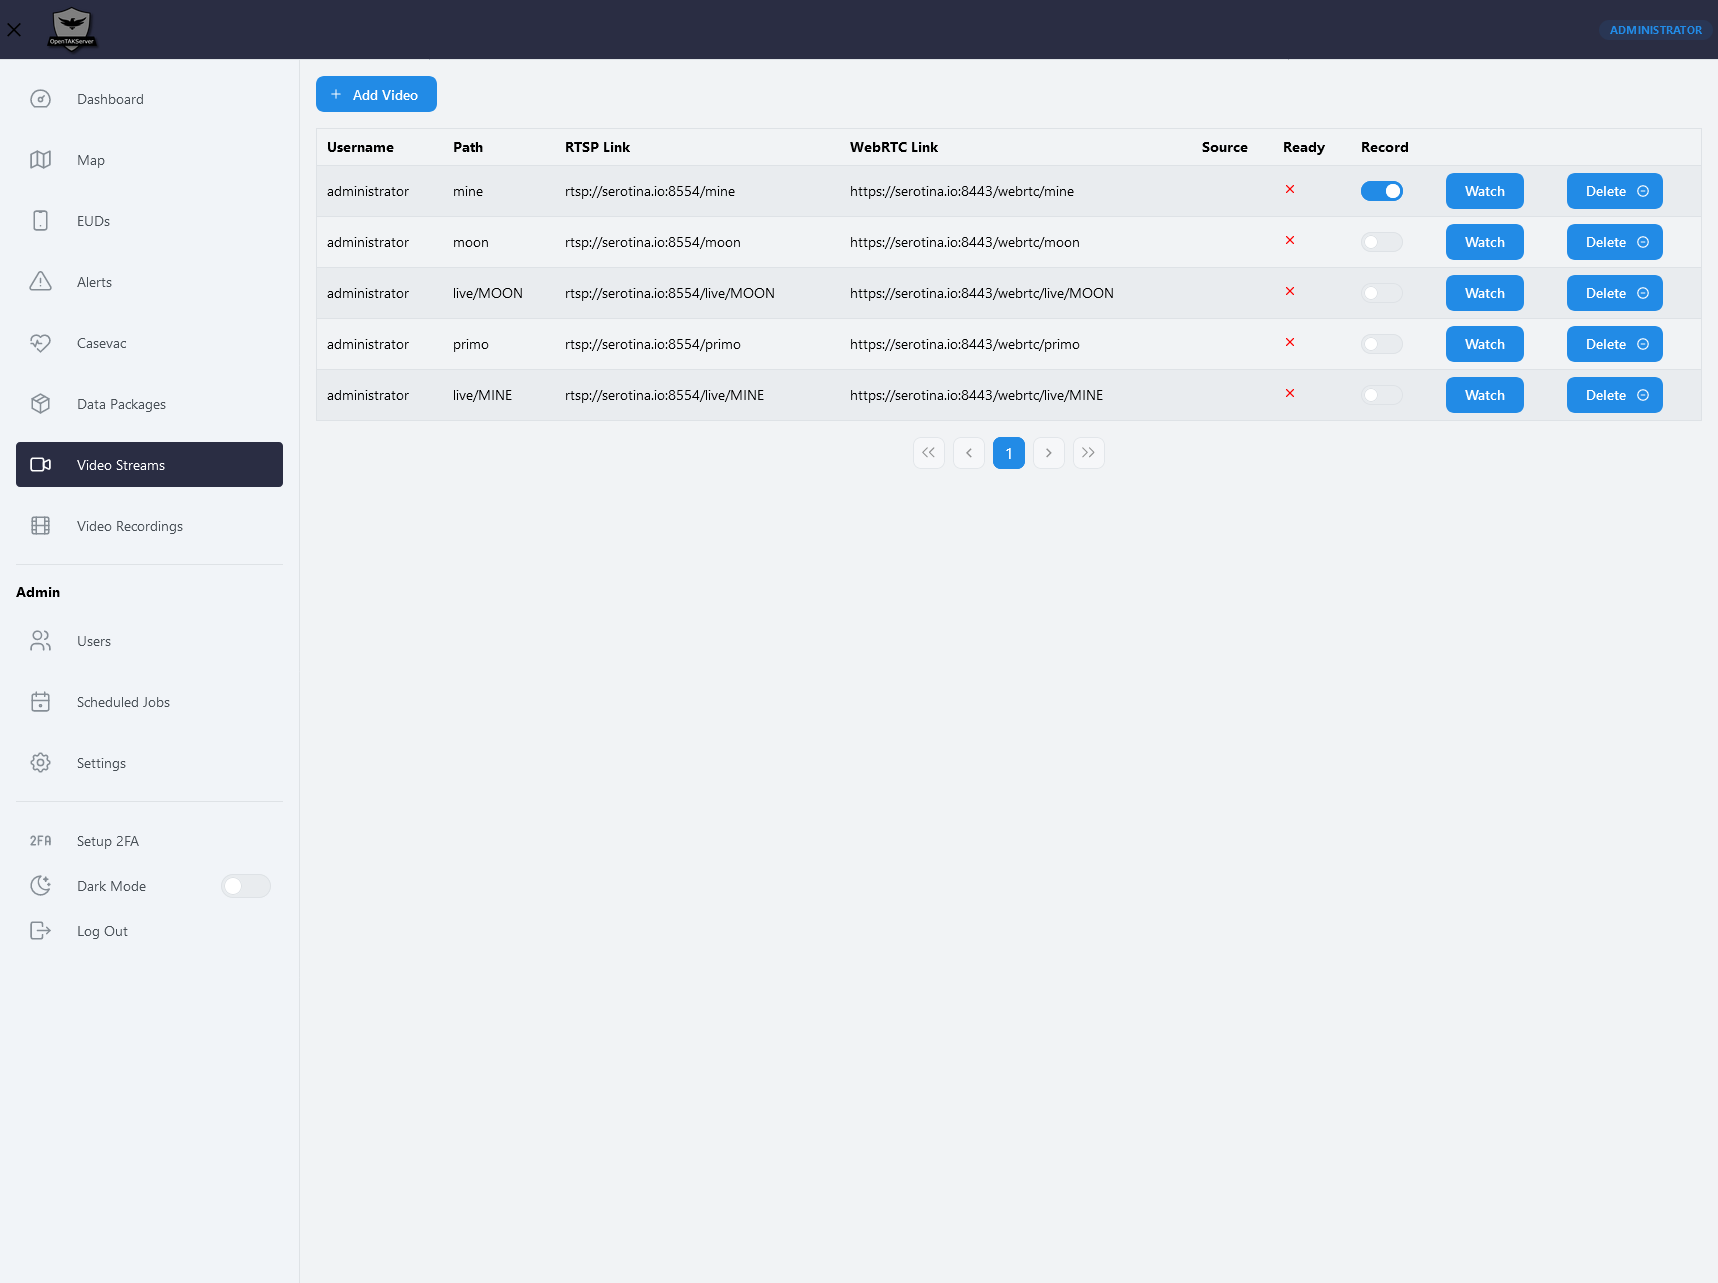
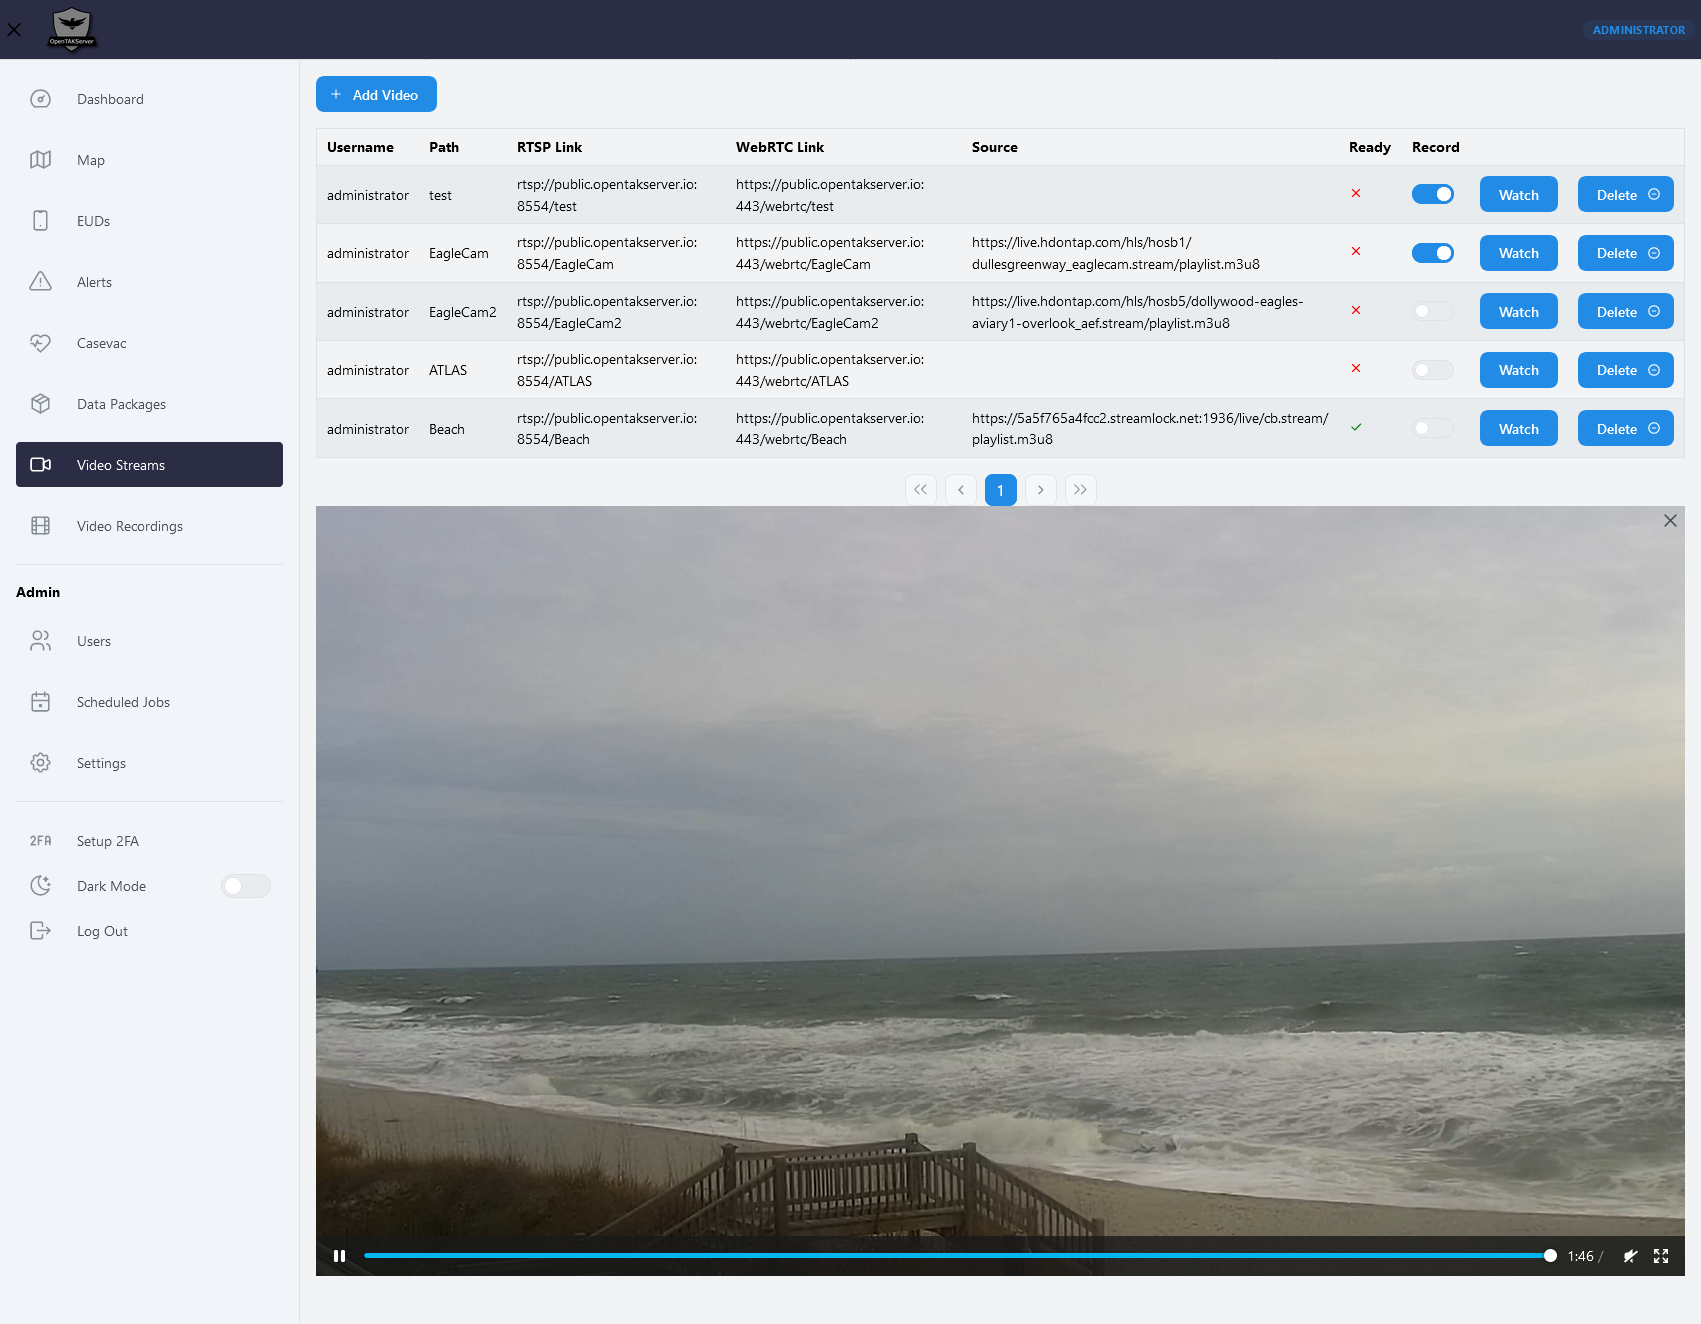
Updated video streaming docs

diff --git a/docs/video_streaming.md b/docs/video_streaming.md
@@ -18,6 +18,35 @@ You can stream to MediaMTX using a variety of protocols:
 - WebRTC
 - UDP Multicast
 
+## Watching Video Streams
+
+***
+
+### In Browser
+
+***
+
+In OpenTAKServer, click on `Video Streams`. In the list of streams, click the `Watch` button on the stream you want to view.
+A video player will show up below the list of streams. There is a known issue where the player sometimes doesn't show up.
+If that happens, refresh the page and try again.
+
+Alternatively, you can copy the WebRTC link of the video and paste it in a new tab.
+
+### In ATAK
+
+***
+
+When ATAK is connected to OpenTAKServer, open the Video tool, then tap the download button. ATAK will query the server
+for a list of video streams. Choose which stream to view and tap the `Ok` button. Next, edit the video settings and add your
+OpenTAKServer username and password. You can now view the video stream.
+
+### In VLC
+
+***
+
+Copy the RTSP link from OpenTAKServer. In VLC, click Media -> Open Network Stream. Paste the RTSP link and click the Play
+button. You will be prompted for your OpenTAKServer username and password. Enter them and click Ok.
+
 ## Recording Streams
 
 ***
